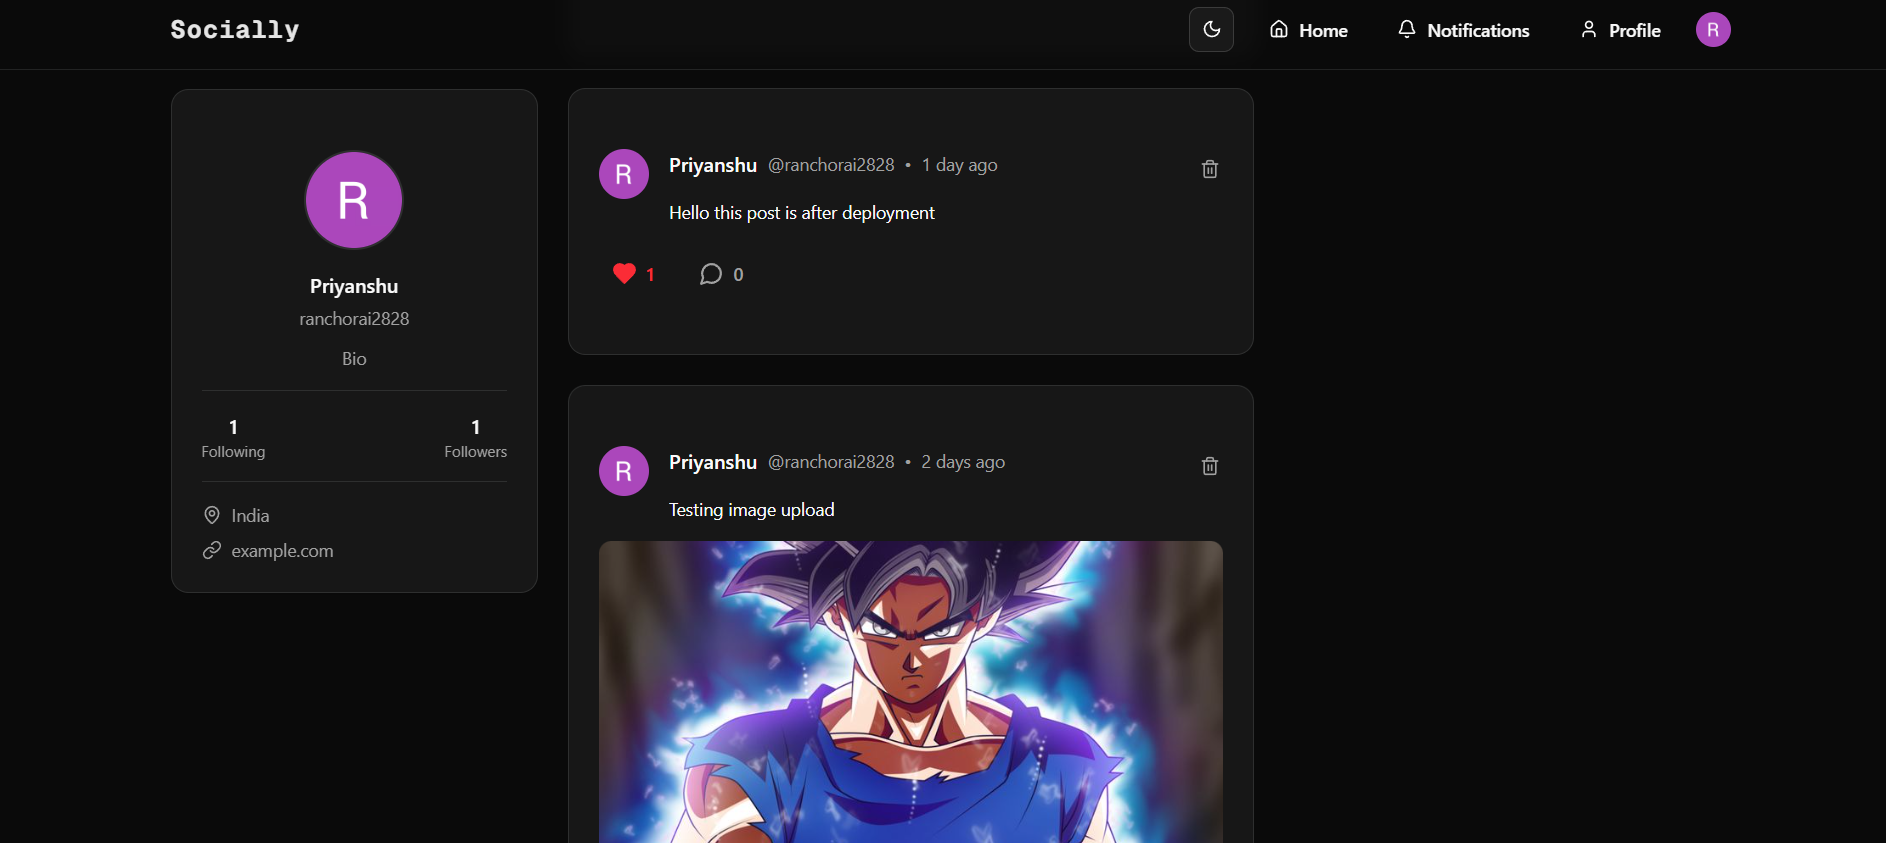
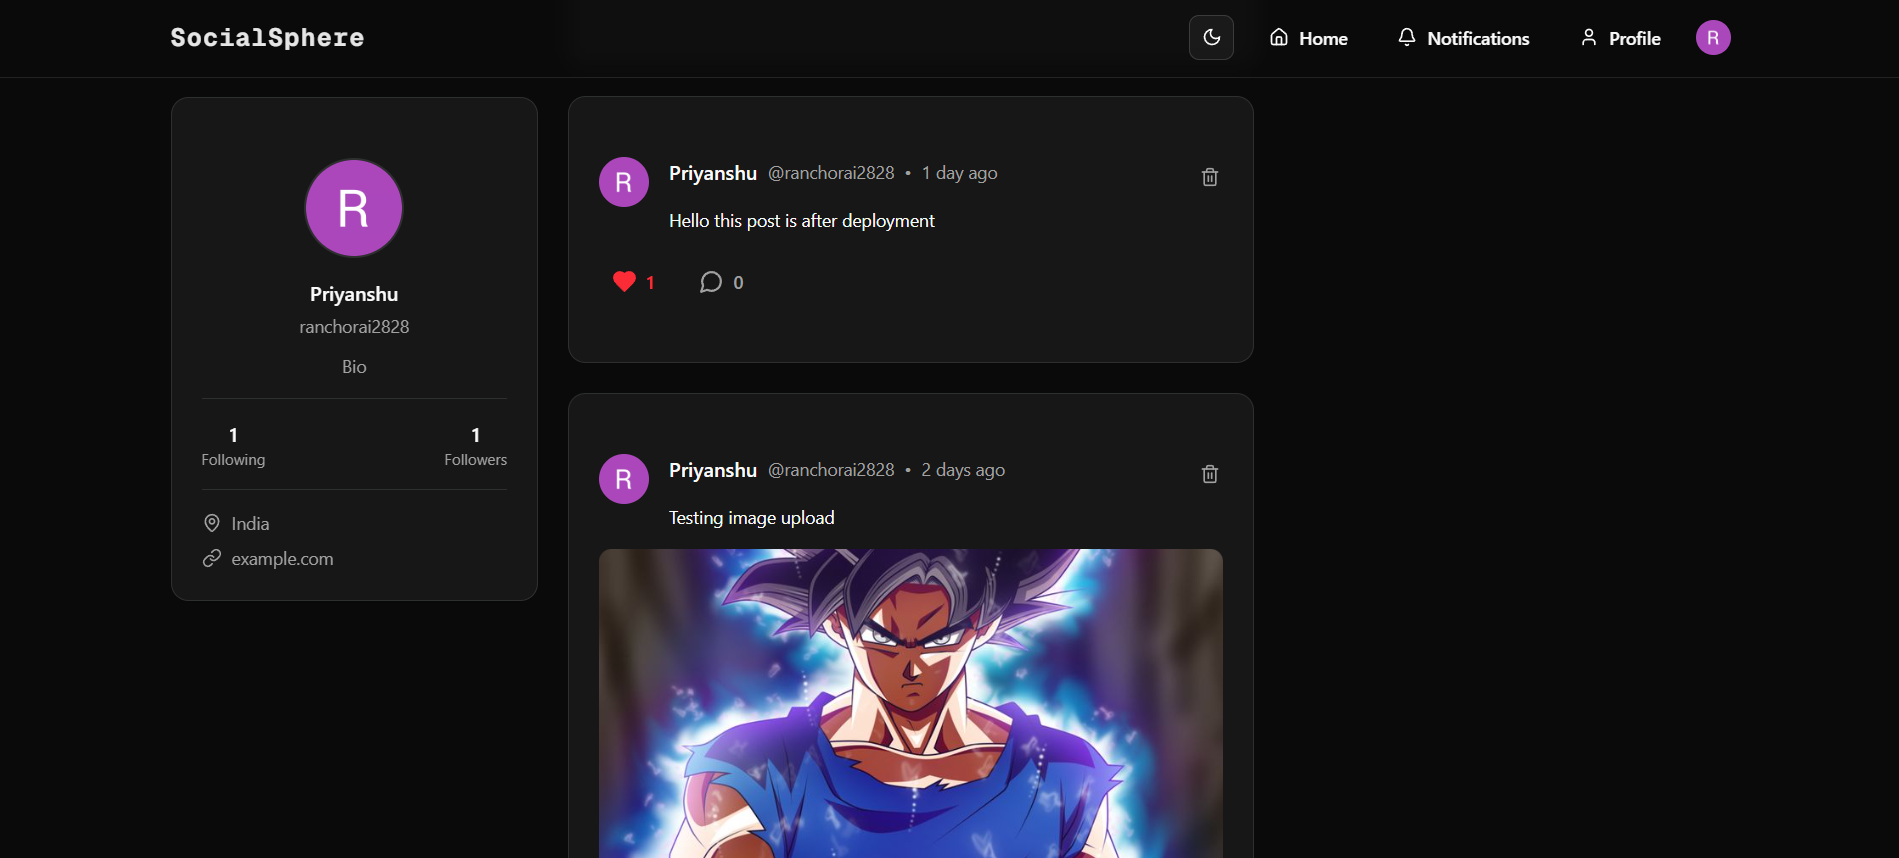
New Images and Title

diff --git a/src/app/layout.tsx b/src/app/layout.tsx
@@ -18,7 +18,7 @@ const geistMono = Geist_Mono({
 });
 
 export const metadata: Metadata = {
-  title: "Socially",
+  title: "SocialSphere",
   description: "Modern Social Media Application powered by Next.js",
 };
 
